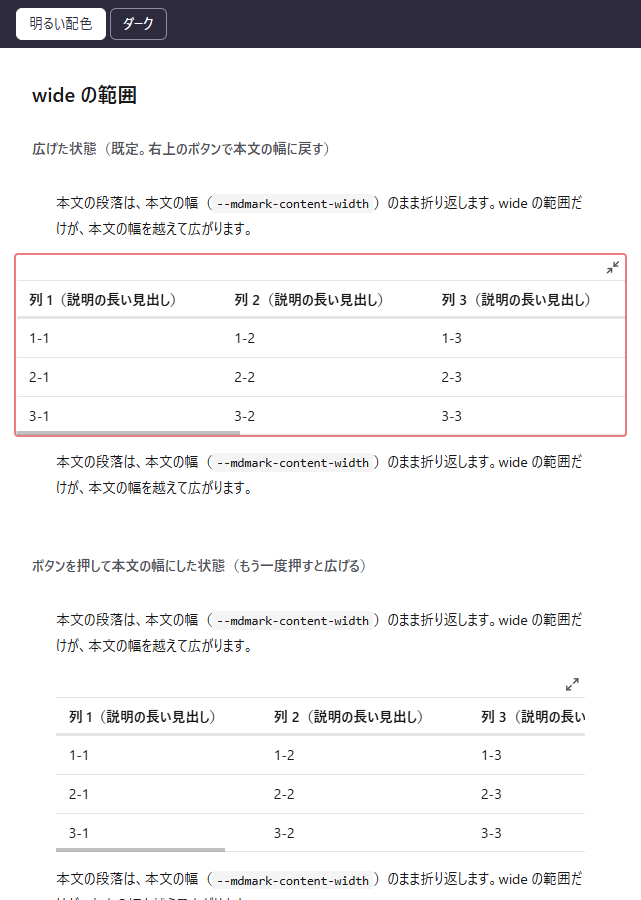
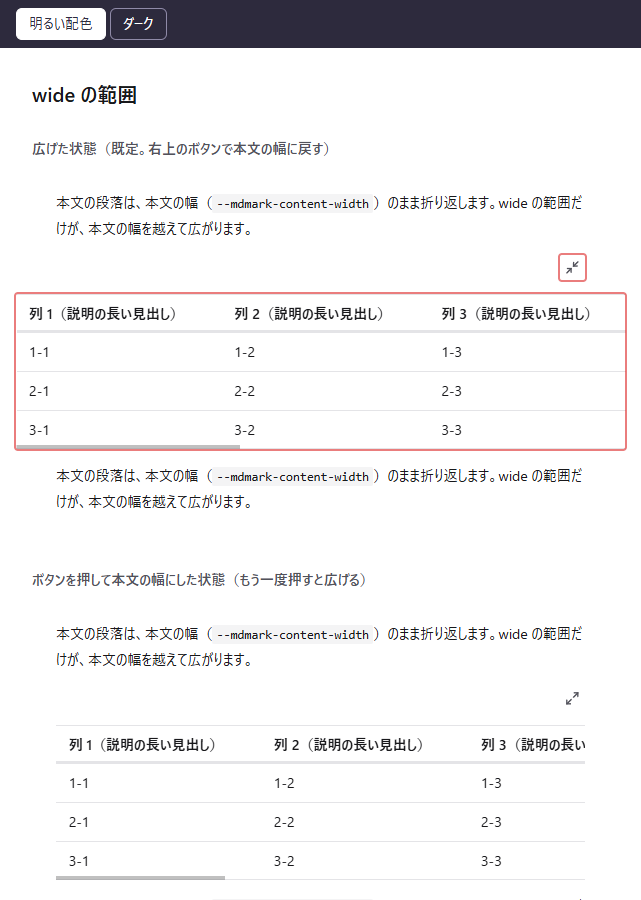
docs: PR #307 の要件と計画書の wide のボタンの位置を修正し、確定コミットとスクリーンショットを記録する

diff --git a/dev/pr/307/ライブラリ本体.md b/dev/pr/307/ライブラリ本体.md
@@ -61,7 +61,7 @@
 | details | 既存の折りたたみの部品で範囲を包み、`open` で開いた状態にする。印刷では開く | |
 | pagebreak | 画面では何も出さない要素にし、印刷の CSS で改ページする | |
 | include | 取り込む文書の表から、文書の全体・見出しの中・コードの行の範囲を取り出して描く。無い取り込み先は書き方の警告にし、check でずれとして返す | 渡し方は `未確定`（要件.md）。行の範囲は `#L3-L10`（確認ログ）。循環する取り込みは警告にする |
-| wide | 範囲を本文の幅の外へ広げ、右の目次・まとめた HTML の文書の一覧に重ならない幅に収める。範囲の右上のボタンで本文の幅と切り替え、本文の幅から始める指定を受ける | 確認ログで決定。指定の書き方はインターフェース定義で決める |
+| wide | 範囲を本文の幅の外へ広げ、右の目次・まとめた HTML の文書の一覧に重ならない幅に収める。範囲の上の本文の幅の右端のボタンで本文の幅と切り替え、本文の幅から始める指定を受ける | 確認ログで決定。指定の書き方はインターフェース定義で決める |
 | CSV の表 | 言語 `csv` のコードブロックを GFM の表と同じトークンにし、表のマーカーの機能をそのまま当てる。表の右端の RAW のボタンで元の CSV と表を切り替える（RAW のボタンは CSV の表だけに付け、GFM の表には付けない） | 読み取りは `未確定`（要件.md）。マーカーの無いブロックも表にする（確認ログ） |
 | 機能のオン・オフ | 新しい記法ごとに features のキーを追加する | 既定はオン（確認ログ） |
 | 配布物のサイズ | 追加後の dist/index.js と dist/index.css が非機能要件の上限に収まることを確認する | |
@@ -78,6 +78,7 @@
 | 単一ユースケース設計 | `85f84a1f..31f3a070` | レビューの指摘の修正 |
 | 単一ユースケース設計 | `8944bb9c..9ca0f36e` | 確認事項の決着（CSV の表の RAW の切り替え）の反映 |
 | 単一ユースケース設計 | `c6864b93..b3fcc1ed` | 確認事項の決着（wide の幅の切り替えと既定の状態の指定）の反映 |
+| 単一ユースケース設計 | `04a06f27..c8591260` | レビューの指摘の修正（切り替えのボタンの位置と読み上げ名） |
 
 ## テスト結果
 

diff --git a/dev/pr/307/要件.md b/dev/pr/307/要件.md
@@ -54,7 +54,7 @@
 
 決定（確認ログ）: VS Code のプレビューでも、拡張機能が取り込む文書を読んで渡し、取り込み先を保存したら描き直す。
 
-決定（確認ログ）: wide の範囲は描く先の要素の幅まで広げ、右の目次と文書の一覧の列の内側に収める。範囲の右上のラベルの無いボタンで広げた幅と本文の幅を切り替え、本文の幅から始めるかをマーカーのオプションで指定できる（既定は広げた幅）。
+決定（確認ログ）: wide の範囲は描く先の要素の幅まで広げ、右の目次と文書の一覧の列の内側に収める。範囲の上の本文の幅の右端のラベルの無いボタンで広げた幅と本文の幅を切り替え、本文の幅から始めるかをマーカーのオプションで指定できる（既定は広げた幅）。
 
 決定（確認ログ）: マーカーの無い言語 `csv` のコードブロックも既定の種類の表にする。表の右端に RAW のボタンを置き、押すと元の CSV のコードブロック、もう一度押すと描いた表に戻す（押していない状態は薄く表示する）。変更履歴に見た目が変わる旨を記載する。
 
